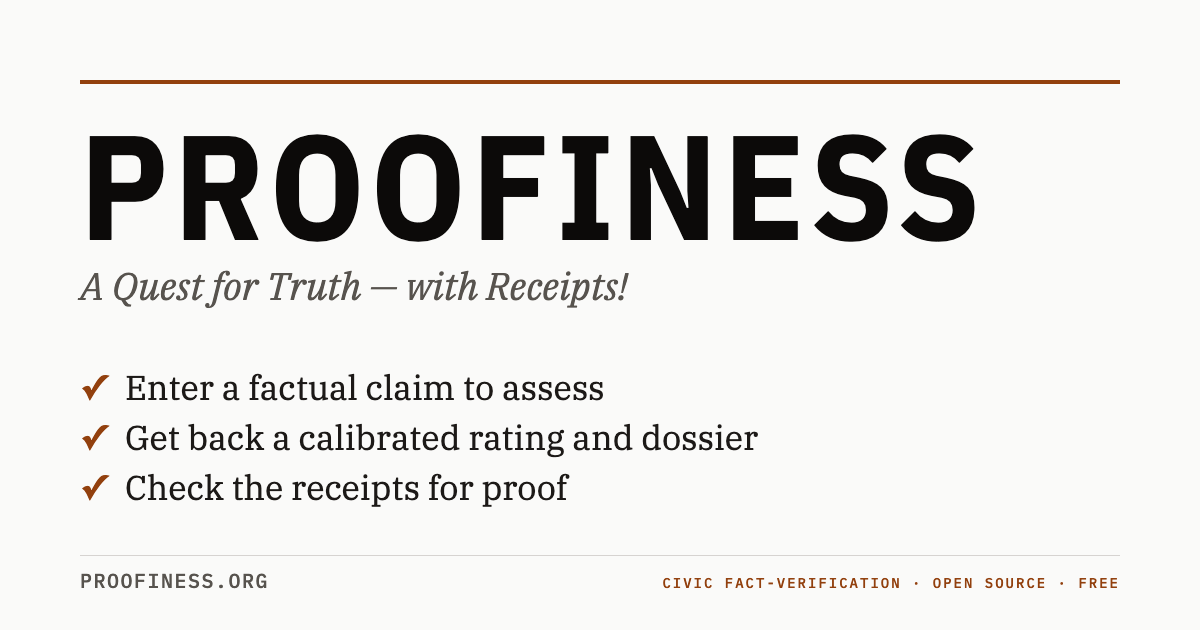
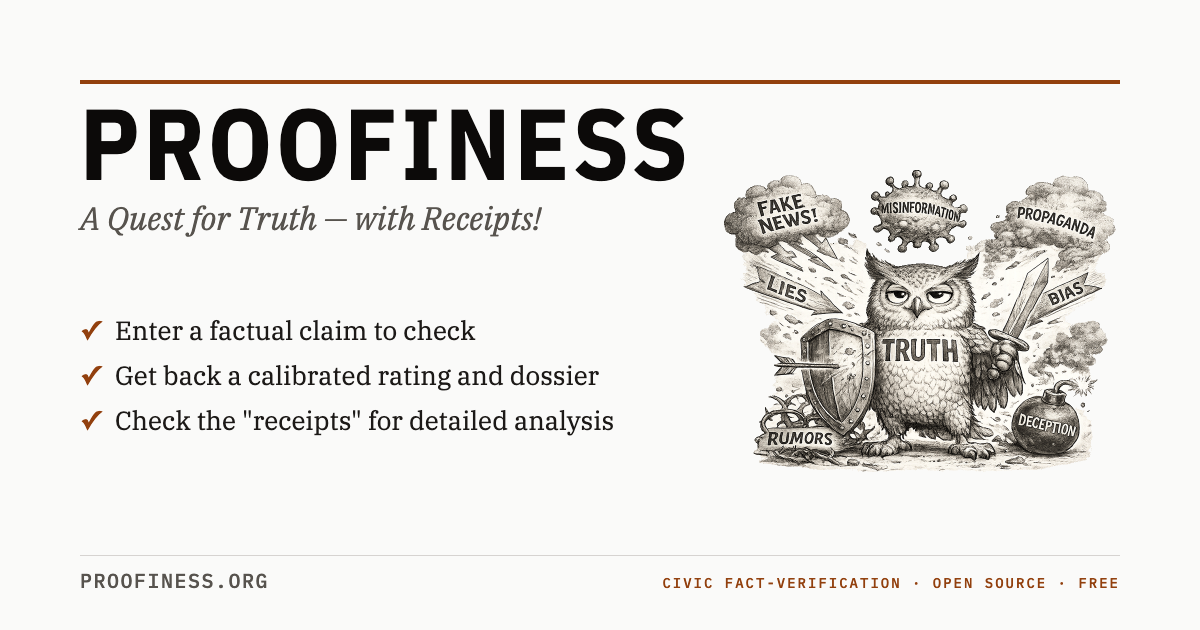
Owl mascot — landing page hero + OG image
Adds the Proofiness owl mascot as a visual identity element.

Landing page:
  - Mascot rendered centered between the tagline and the descriptive
    paragraph in the Header (landing route only). Sized at max-w-xs
    on mobile, max-w-sm on bigger screens. Alt text describes the
    imagery for screen readers.

OG image:
  - Re-laid out for two columns: type (wordmark + tagline + three
    checkmark bullets) on the left, owl mascot vertically centered
    on the right. Wordmark drops from 148px to 100px to fit the
    narrower left column; bullet font from 28 to 26 so the longer
    third bullet fits comfortably without crowding the owl.
  - Bullet copy refresh:
      "Enter a factual claim to check"
      "Get back a calibrated rating and dossier"
      'Check the "receipts" for detailed analysis'
  - SVG references the PNG via <image href="proofiness-logo.png">;
    the headless-Chrome wrapper mirrors the layout with the same
    asset path adjusted for its location.

diff --git a/apps/web/src/components/LandingPage.tsx b/apps/web/src/components/LandingPage.tsx
@@ -32,7 +32,7 @@ export function LandingPage() {
               Today's information environment is making objective truth harder and harder to discern and trust. Misinformation spreads faster and further than the corrections that follow it. AI tools that pronounce confident verdicts based on their training pollute the environment as much as they help it. There's proofiness, and then there's real proof.
             </p>
             <p>
-              This app tries to thread that needle. Its assessments of factual claims are nuanced and carefully calibrated, rather than binary verdicts. More important, they include full dossiers showing the deep research and rigorous analysis supporting the assessments.
+              This app tries to thread that needle. Its assessments of factual claims are nuanced and carefully calibrated, rather than binary verdicts like other fact-checking apps. More important, they include full dossiers showing the deep research and rigorous analysis supporting the assessments.
             </p>
             <p>
               We need and deserve a source of truth we can trust. May Proofiness propel us in that direction....
@@ -47,8 +47,8 @@ export function LandingPage() {
         <ol className="space-y-5">
           <Step
             n="01"
-            title="Enter a claim you want to assess"
-            body="Type or paste a factual claim you want to assess &mdash; from a viral social-media post to a campaign ad to a sentence in a news article. A sentence or two is best."
+            title="Enter an alleged fact you want to check"
+            body="Type or paste a factual claim you want to check &mdash; from a viral social-media post to a campaign ad to a sentence in a news article. A sentence or two is best."
           />
           <StepArrow />
           <Step
@@ -60,13 +60,13 @@ export function LandingPage() {
           <Step
             n="03"
             title="Receive and review the assessment"
-            body="Within a minute or so, the app produces an assessment that assigns one of six calibrated labels to the claim, shows a confidence level in its judgment, and provides a one- or two-sentence summary."
+            body="Within a minute or so, the app produces an assessment that assigns one of six calibrated labels to the claim, shows a confidence level in its judgment, and provides a brief summary."
           />
           <StepArrow />
           <Step
             n="04"
             title="If you need proof, check the receipts"
-            body="Every assessment shows its work. The deep-path dossier — sub-claims, sources with quality badges, steelman pairs, provenance chains — is always just one click away."
+            body="Every assessment shows its work. The deep-path dossier — sub-claims, sources with quality badges, steelman pairs, and provenance chains — is always just one click away."
           />
         </ol>
       </section>
@@ -81,11 +81,11 @@ export function LandingPage() {
           />
           <Feature
             title="Multi-framing search"
-            body="Three to four queries per sub-claim with deliberately varied framings — not just one Google. Built to fight SEO bubbles."
+            body="Three to four queries per sub-claim with deliberately varied framings — not just one Google. Designed to fight SEO bubbles."
           />
           <Feature
             title="Provenance tracing"
-            body="Walks citations upstream from secondary reporting toward the primary source the chain ends at. Many widely-repeated 'facts' trace back to one weak study."
+            body="Walks citations upstream from secondary reporting toward the primary source where the chain ends. Many widely repeated 'facts' trace back to one weak study."
           />
           <Feature
             title="Steelman both sides"
@@ -97,7 +97,7 @@ export function LandingPage() {
           />
           <Feature
             title="No accounts, no tracking"
-            body="Local SQLite database. No analytics. No cookies. Three named third parties (Anthropic, Tavily, source publishers); see Privacy."
+            body="Local SQLite database. No analytics or cookies. Three named third parties (Anthropic, Tavily, source publishers); see Privacy."
           />
         </div>
       </section>
@@ -114,7 +114,7 @@ export function LandingPage() {
       {/* Closing CTA — repeated */}
       <section className="space-y-4 border-t-2 border-ink pt-10">
         <p className="text-center font-display text-2xl font-bold uppercase tracking-widish text-ink sm:text-3xl">
-          Ready to assess a factual claim?
+          Ready to check a factual claim?
         </p>
         <PrimaryCTA />
       </section>

diff --git a/apps/web/scripts/og-render.html b/apps/web/scripts/og-render.html
@@ -18,28 +18,32 @@
       <rect width="1200" height="630" fill="#fafaf9"/>
       <rect x="80" y="80" width="1040" height="4" fill="#92400e"/>
 
-      <text x="80" y="240"
+      <text x="80" y="180"
             font-family="'IBM Plex Sans Condensed', 'Helvetica Neue Condensed', 'Arial Narrow', sans-serif"
-            font-weight="700" font-size="148" fill="#0c0a09" letter-spacing="6">PROOFINESS</text>
+            font-weight="700" font-size="100" fill="#0c0a09" letter-spacing="4">PROOFINESS</text>
 
-      <text x="80" y="300"
+      <text x="80" y="230"
             font-family="'IBM Plex Serif', Georgia, 'Times New Roman', serif"
-            font-style="italic" font-size="38" fill="#57534e">A Quest for Truth — with Receipts!</text>
+            font-style="italic" font-size="32" fill="#57534e">A Quest for Truth — with Receipts!</text>
 
-      <text x="80" y="400" font-family="'IBM Plex Serif', Georgia, serif"
-            font-size="34" font-weight="600" fill="#92400e">✓</text>
-      <text x="125" y="400" font-family="'IBM Plex Serif', Georgia, serif"
-            font-size="34" fill="#1c1917">Enter a factual claim to assess</text>
+      <text x="80" y="340" font-family="'IBM Plex Serif', Georgia, serif"
+            font-size="26" font-weight="600" fill="#92400e">✓</text>
+      <text x="115" y="340" font-family="'IBM Plex Serif', Georgia, serif"
+            font-size="26" fill="#1c1917">Enter a factual claim to check</text>
 
-      <text x="80" y="450" font-family="'IBM Plex Serif', Georgia, serif"
-            font-size="34" font-weight="600" fill="#92400e">✓</text>
-      <text x="125" y="450" font-family="'IBM Plex Serif', Georgia, serif"
-            font-size="34" fill="#1c1917">Get back a calibrated rating and dossier</text>
+      <text x="80" y="385" font-family="'IBM Plex Serif', Georgia, serif"
+            font-size="26" font-weight="600" fill="#92400e">✓</text>
+      <text x="115" y="385" font-family="'IBM Plex Serif', Georgia, serif"
+            font-size="26" fill="#1c1917">Get back a calibrated rating and dossier</text>
 
-      <text x="80" y="500" font-family="'IBM Plex Serif', Georgia, serif"
-            font-size="34" font-weight="600" fill="#92400e">✓</text>
-      <text x="125" y="500" font-family="'IBM Plex Serif', Georgia, serif"
-            font-size="34" fill="#1c1917">Check the receipts for proof</text>
+      <text x="80" y="430" font-family="'IBM Plex Serif', Georgia, serif"
+            font-size="26" font-weight="600" fill="#92400e">✓</text>
+      <text x="115" y="430" font-family="'IBM Plex Serif', Georgia, serif"
+            font-size="26" fill="#1c1917">Check the &quot;receipts&quot; for detailed analysis</text>
+
+      <image href="../public/proofiness-logo.png"
+             x="720" y="164" width="400" height="312"
+             preserveAspectRatio="xMidYMid meet"/>
 
       <rect x="80" y="555" width="1040" height="1" fill="#d6d3d1"/>
 

diff --git a/apps/web/src/App.tsx b/apps/web/src/App.tsx
@@ -109,9 +109,18 @@ function Header({ route }: { route: Route }) {
         </a>
       </div>
       {route.kind === "landing" && (
-        <p className="mt-4 max-w-prose font-serif text-[1.05rem] leading-relaxed text-stone-700">
-          Enter a factual claim you want to assess. Proofiness will decompose it into multiple sub-claims, trace citations to their headwater, steelman both sides of the claim, and return a carefully calibrated assessment backed by a full dossier.
-        </p>
+        <>
+          <div className="mt-6 flex justify-center">
+            <img
+              src="/proofiness-logo.png"
+              alt="Proofiness mascot — an owl with a TRUTH shield, surrounded by labels for fake news, misinformation, propaganda, bias, deception, lies, and rumors."
+              className="block w-full max-w-xs sm:max-w-sm"
+            />
+          </div>
+          <p className="mt-6 max-w-prose font-serif text-[1.05rem] leading-relaxed text-stone-700">
+            Enter a factual claim you want to assess. Proofiness will decompose it into multiple sub-claims, trace citations to their headwater, steelman both sides of the claim, and return a carefully calibrated assessment backed by a full dossier.
+          </p>
+        </>
       )}
     </header>
   );

diff --git a/apps/web/src/components/InviteCodeGate.tsx b/apps/web/src/components/InviteCodeGate.tsx
@@ -66,7 +66,7 @@ export function InviteCodeGate({ reason, onAccepted }: Props) {
       </div>
       <div className="space-y-4 p-5">
         <p className="font-serif text-base leading-relaxed text-stone-800">
-          Every factual claim you submit to Proofiness triggers multiple calls to AI and web-search providers that accrue charges. With an invite code, you'll be able to assess five claims free of charge. When you've used your allotment, you can obtain your own API keys from those providers and assess an unlimited number of claims, with the charges billed to you.{" "}
+          Every factual claim you submit to Proofiness triggers multiple calls to AI and web-search services that accrue charges. With an invite code, you'll be able to assess five claims free of charge. When you've used your allotment, you can obtain your own API keys from those service provider and assess an unlimited number of claims, with the charges billed directly to you.{" "}
           {reason && (
             <span className="font-serif italic text-stone-600">— {reason}</span>
           )}

diff --git a/apps/web/src/components/ClaimInput.tsx b/apps/web/src/components/ClaimInput.tsx
@@ -28,7 +28,7 @@ export function ClaimInput({ onSubmit, busy, initialClaim }: Props) {
   return (
     <form onSubmit={handleSubmit} className="border border-stone-300 bg-white">
       <div className="border-b border-stone-300 bg-stone-100 px-4 py-2">
-        <span className="pf-label-loud text-lg text-accent">Factual Claim To Assess</span>
+        <span className="pf-label-loud text-lg text-accent">Factual Claim To Check</span>
       </div>
       <div className="p-4">
         <label className="block">
@@ -71,7 +71,7 @@ export function ClaimInput({ onSubmit, busy, initialClaim }: Props) {
             disabled={!canSubmit}
             className="border border-ink bg-ink px-5 py-2 font-display text-sm font-semibold uppercase tracking-widish text-stone-50 hover:bg-stone-800 disabled:cursor-not-allowed disabled:border-stone-400 disabled:bg-stone-400"
           >
-            {busy ? "Assessing claim…" : "Assess the Claim →"}
+            {busy ? "Checking claim…" : "Check the Claim →"}
           </button>
         </div>
       </div>
